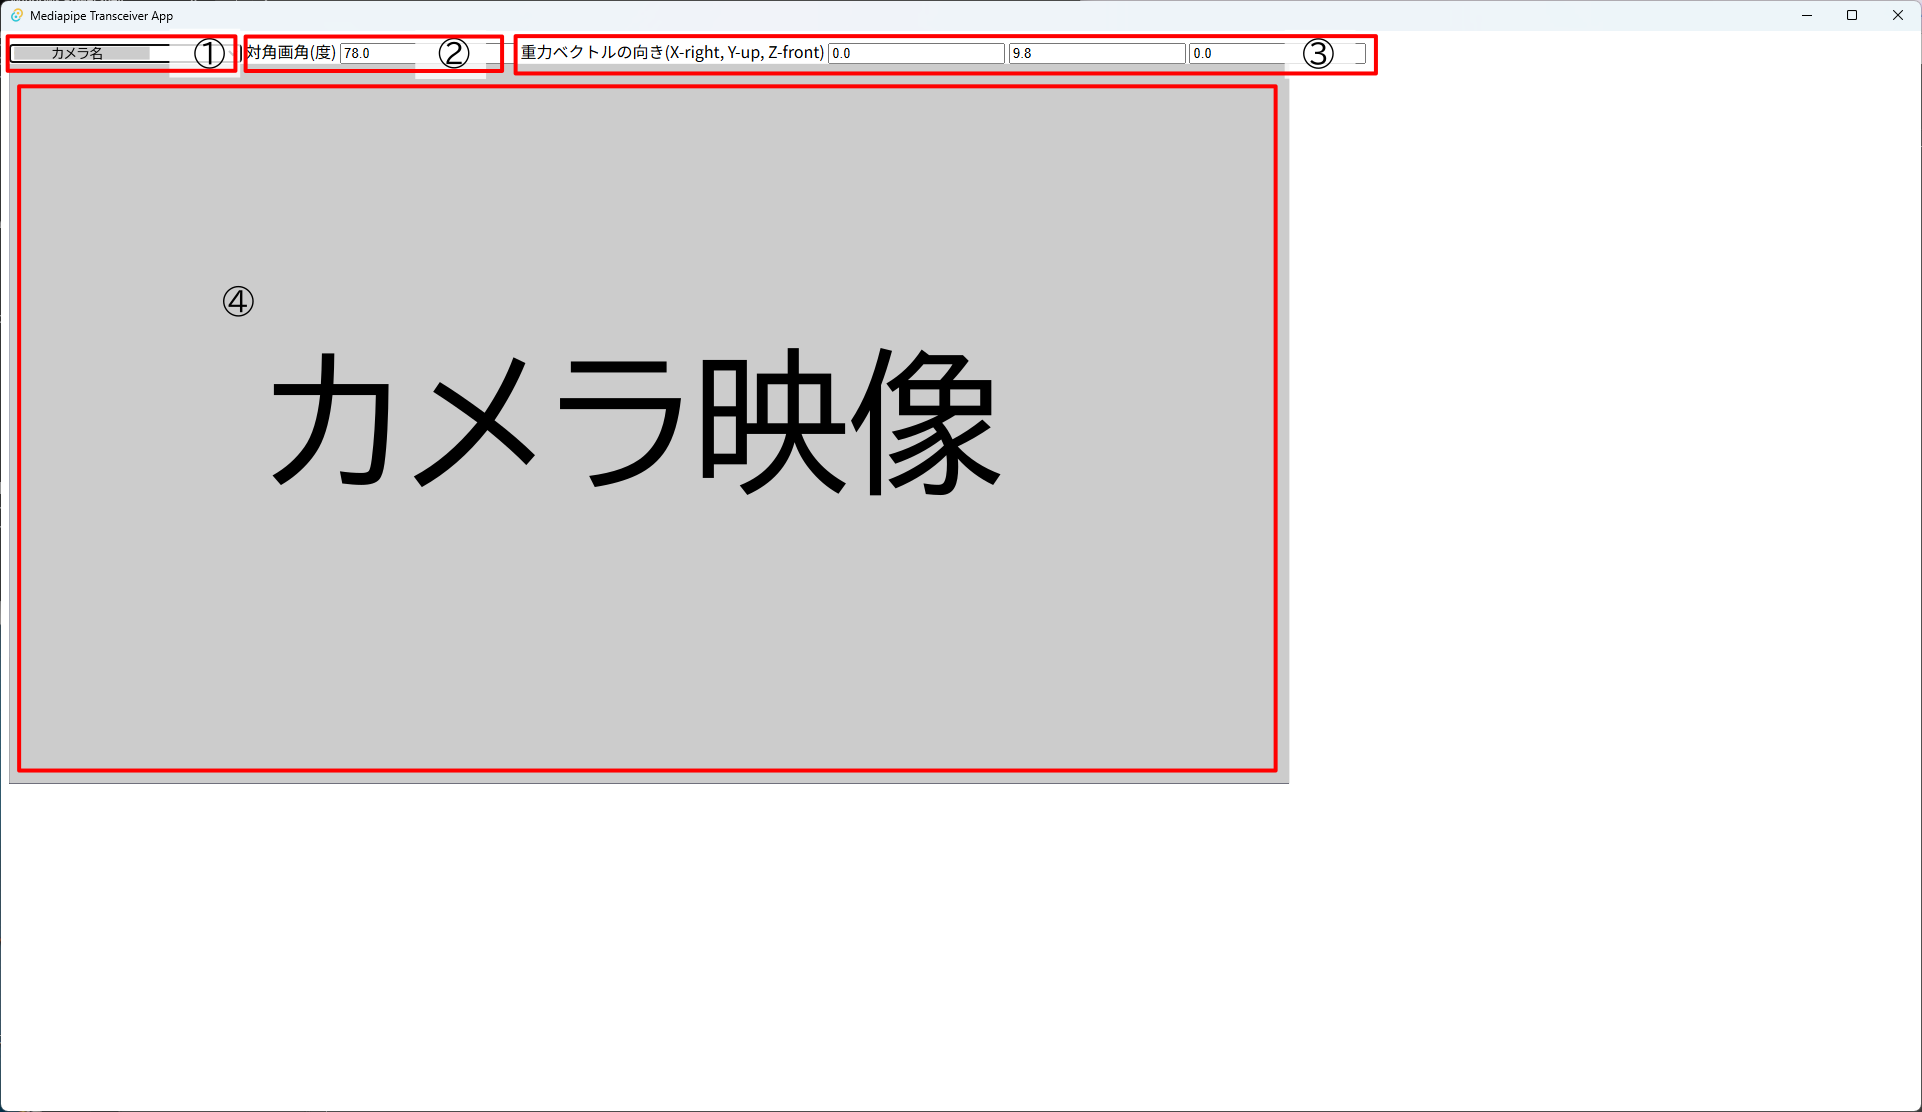
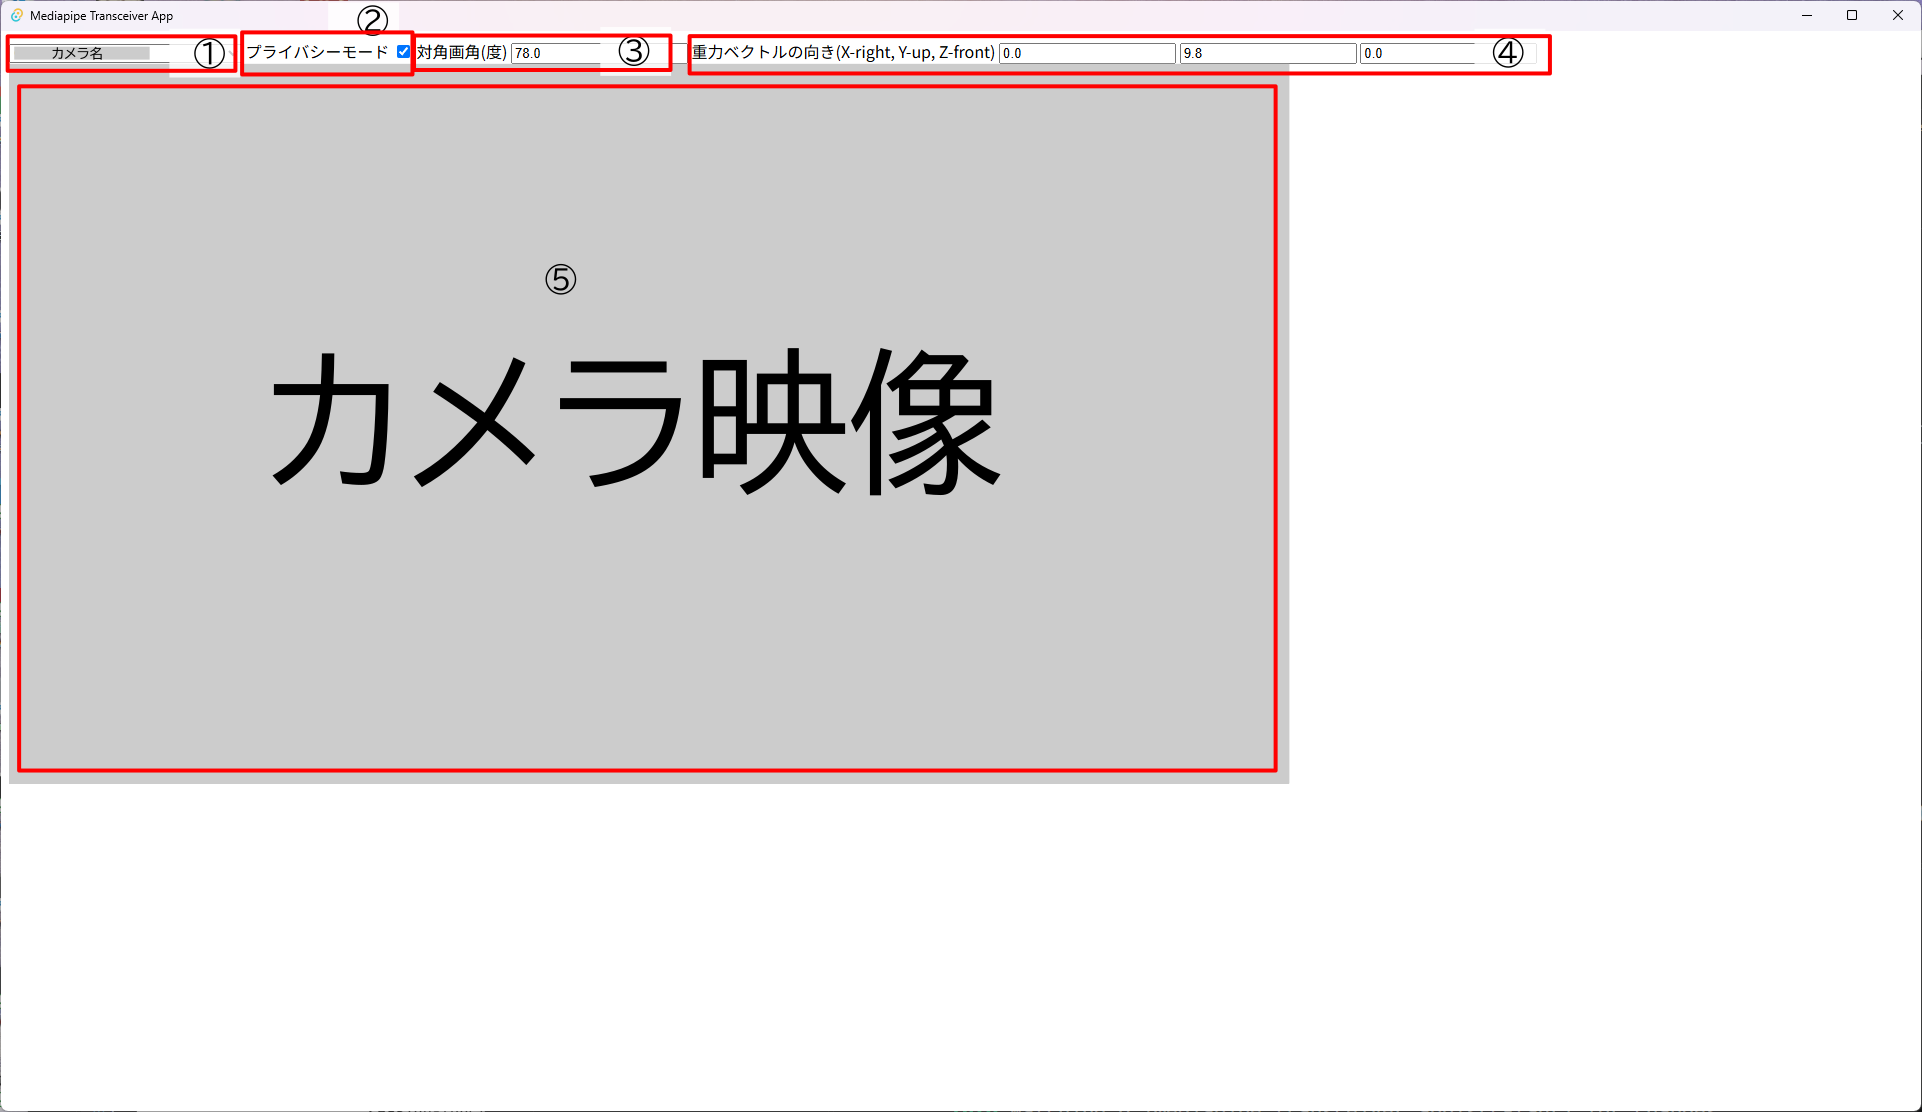
add privacy mode

diff --git a/src/capture.js b/src/capture.js
@@ -17,6 +17,9 @@ const canvasElement = document.getElementById('output_canvas');
 const ctx = canvasElement.getContext('2d');
 const drawingUtils = new DrawingUtils(ctx);
 
+// プライバシーモード
+const privacyMode = document.getElementById("privacy");
+
 // camera parameters
 const cameraWidth = 1280;
 const cameraHeight = 720;
@@ -91,6 +94,12 @@ async function startCamera(deviceId) {
 }
 
 async function main() {
+    // プライバシーモードではカメラ映像を隠す
+    if (privacyMode.checked) {
+        ctx.fillStyle = "#cccccc";
+        ctx.fillRect(0, 0, canvasElement.width, canvasElement.height);
+    }
+
     // 先に一度getUserMediaで許可を取っておく（label取得のため）
     await startCamera(null);
     await populateCameraList();
@@ -221,8 +230,14 @@ async function main() {
             }).then();
 
             // 描画は公式サンプルを参照
-            // https://github.com/google-ai-edge/mediapipe-samples-web/blob/main/src/tasks/holistic-landmarker.ts#L61
-            ctx.clearRect(0, 0, canvasElement.width, canvasElement.height);
+            // https://github.com/google-ai-edge/mediapipe-samples-web/blob/main/src/tasks/holistic-landmarker.ts#L61       
+            // プライバシーモードではカメラ映像を隠す
+            if (privacyMode.checked) {
+                ctx.fillStyle = "#cccccc";
+                ctx.fillRect(0, 0, canvasElement.width, canvasElement.height);
+            } else {
+                ctx.clearRect(0, 0, canvasElement.width, canvasElement.height);
+            }
 
             // Face Landmarks
             if (result.faceLandmarks && result.faceLandmarks.length > 0) {

diff --git a/dist/capture.html b/dist/capture.html
@@ -23,6 +23,9 @@
 <body>
     <!-- カメラ選択用 -->
     <select id="cameraSelect"></select>
+    <!-- プライバシーモード -->
+    <label for="privacy">プライバシーモード</label>
+    <input type="checkbox" name="privacy" id="privacy" checked />
     <!-- カメラパラメータを推定するために必要 -->
     <label for="fov">対角画角(度)</label>
     <input type="number" name="fov" id="fov" value="78.0" />

diff --git a/README.md b/README.md
@@ -29,18 +29,22 @@ HIROMEIROではポート番号は38013(0x947d)を使用します。
 
 ①のドロップダウンメニューから使用するカメラを選択してください。
 
-②には、カメラの対角画角を入力します。
+②のプライバシーモードのチェックボックスは
+チェックされている場合は入力映像を隠すようになります。
+デフォルトでチェックされているため、入力映像を確認したい場合はチェックを外してください。
+
+③には、カメラの対角画角を入力します。
 使用するカメラのカタログスペックから引用して下さい。
 
-③には、カメラの向きを指定する重力ベクトルを入力します。
+④には、カメラの向きを指定する重力ベクトルを入力します。
 座標系はX-right Y-up Z-frontで、
 重力ベクトルは鉛直上向きとなります。
 
 - カメラ映像の下が床方向を向いている場合、重力ベクトルは(0, 9.8, 0)となります。
 - カメラ映像の左を床方向に向けた場合、重力ベクトルは(9.8, 0, 0)となります。
 
-④に認識結果を表示します。
-入力映像が表示されますので、
+⑤に認識結果を表示します。
+②のプライバシーモードのチェックが外れていると入力映像が表示されますので、
 配信画面に映りこまないよう十分に注意してください。
 
 ## 開発者向け・ビルド方法
